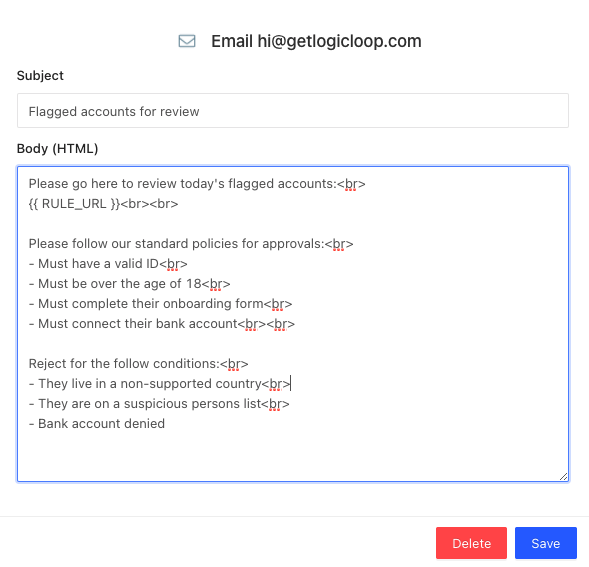
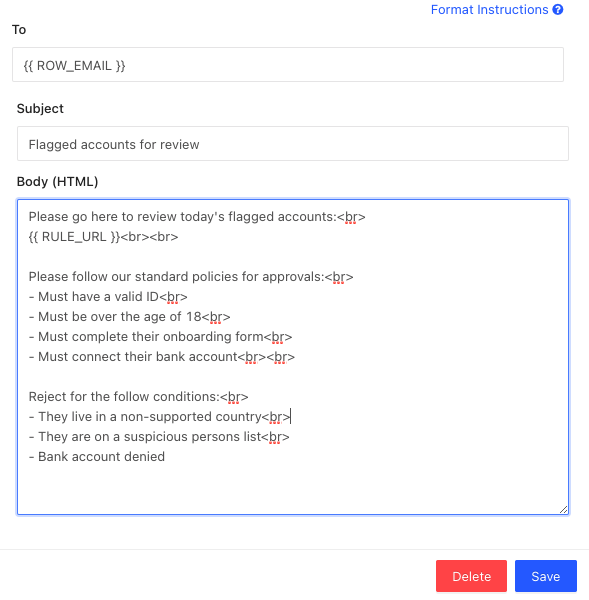
Add new email To: field docs

diff --git a/docs/action_template.html b/docs/action_template.html
@@ -123,6 +123,8 @@
                         Here's an example of a template we can configure on Email:<br>
                         <img src="../assets/images/docs/templates/email_template.png" width="600"><br><br>
 
+                        If you leave the "To:" field blank it will default to the "To:" field you configured in your action destination. Otherwise, you can override that configuration by specifying a recipient here. You can either hardcode the recipient e.g. To: hi@getlogicloop.com, or you can encode a recipient e.g. {{ ROW_EMAIL }} so that emails get sent to different addresses per row returned from your rule. This comes in handy, for example, if your rule pulled up a list of emails for customers you wanted to contact and you want to send an email to each one. You can also specify multiple recipients by separating them with a comma e.g. one@gmail.com, two@gmail.com<br><br>
+
                         Here's what the result would look like:<br>
                         <img src="../assets/images/docs/templates/email_result.png" width="800"><br><br>
 
